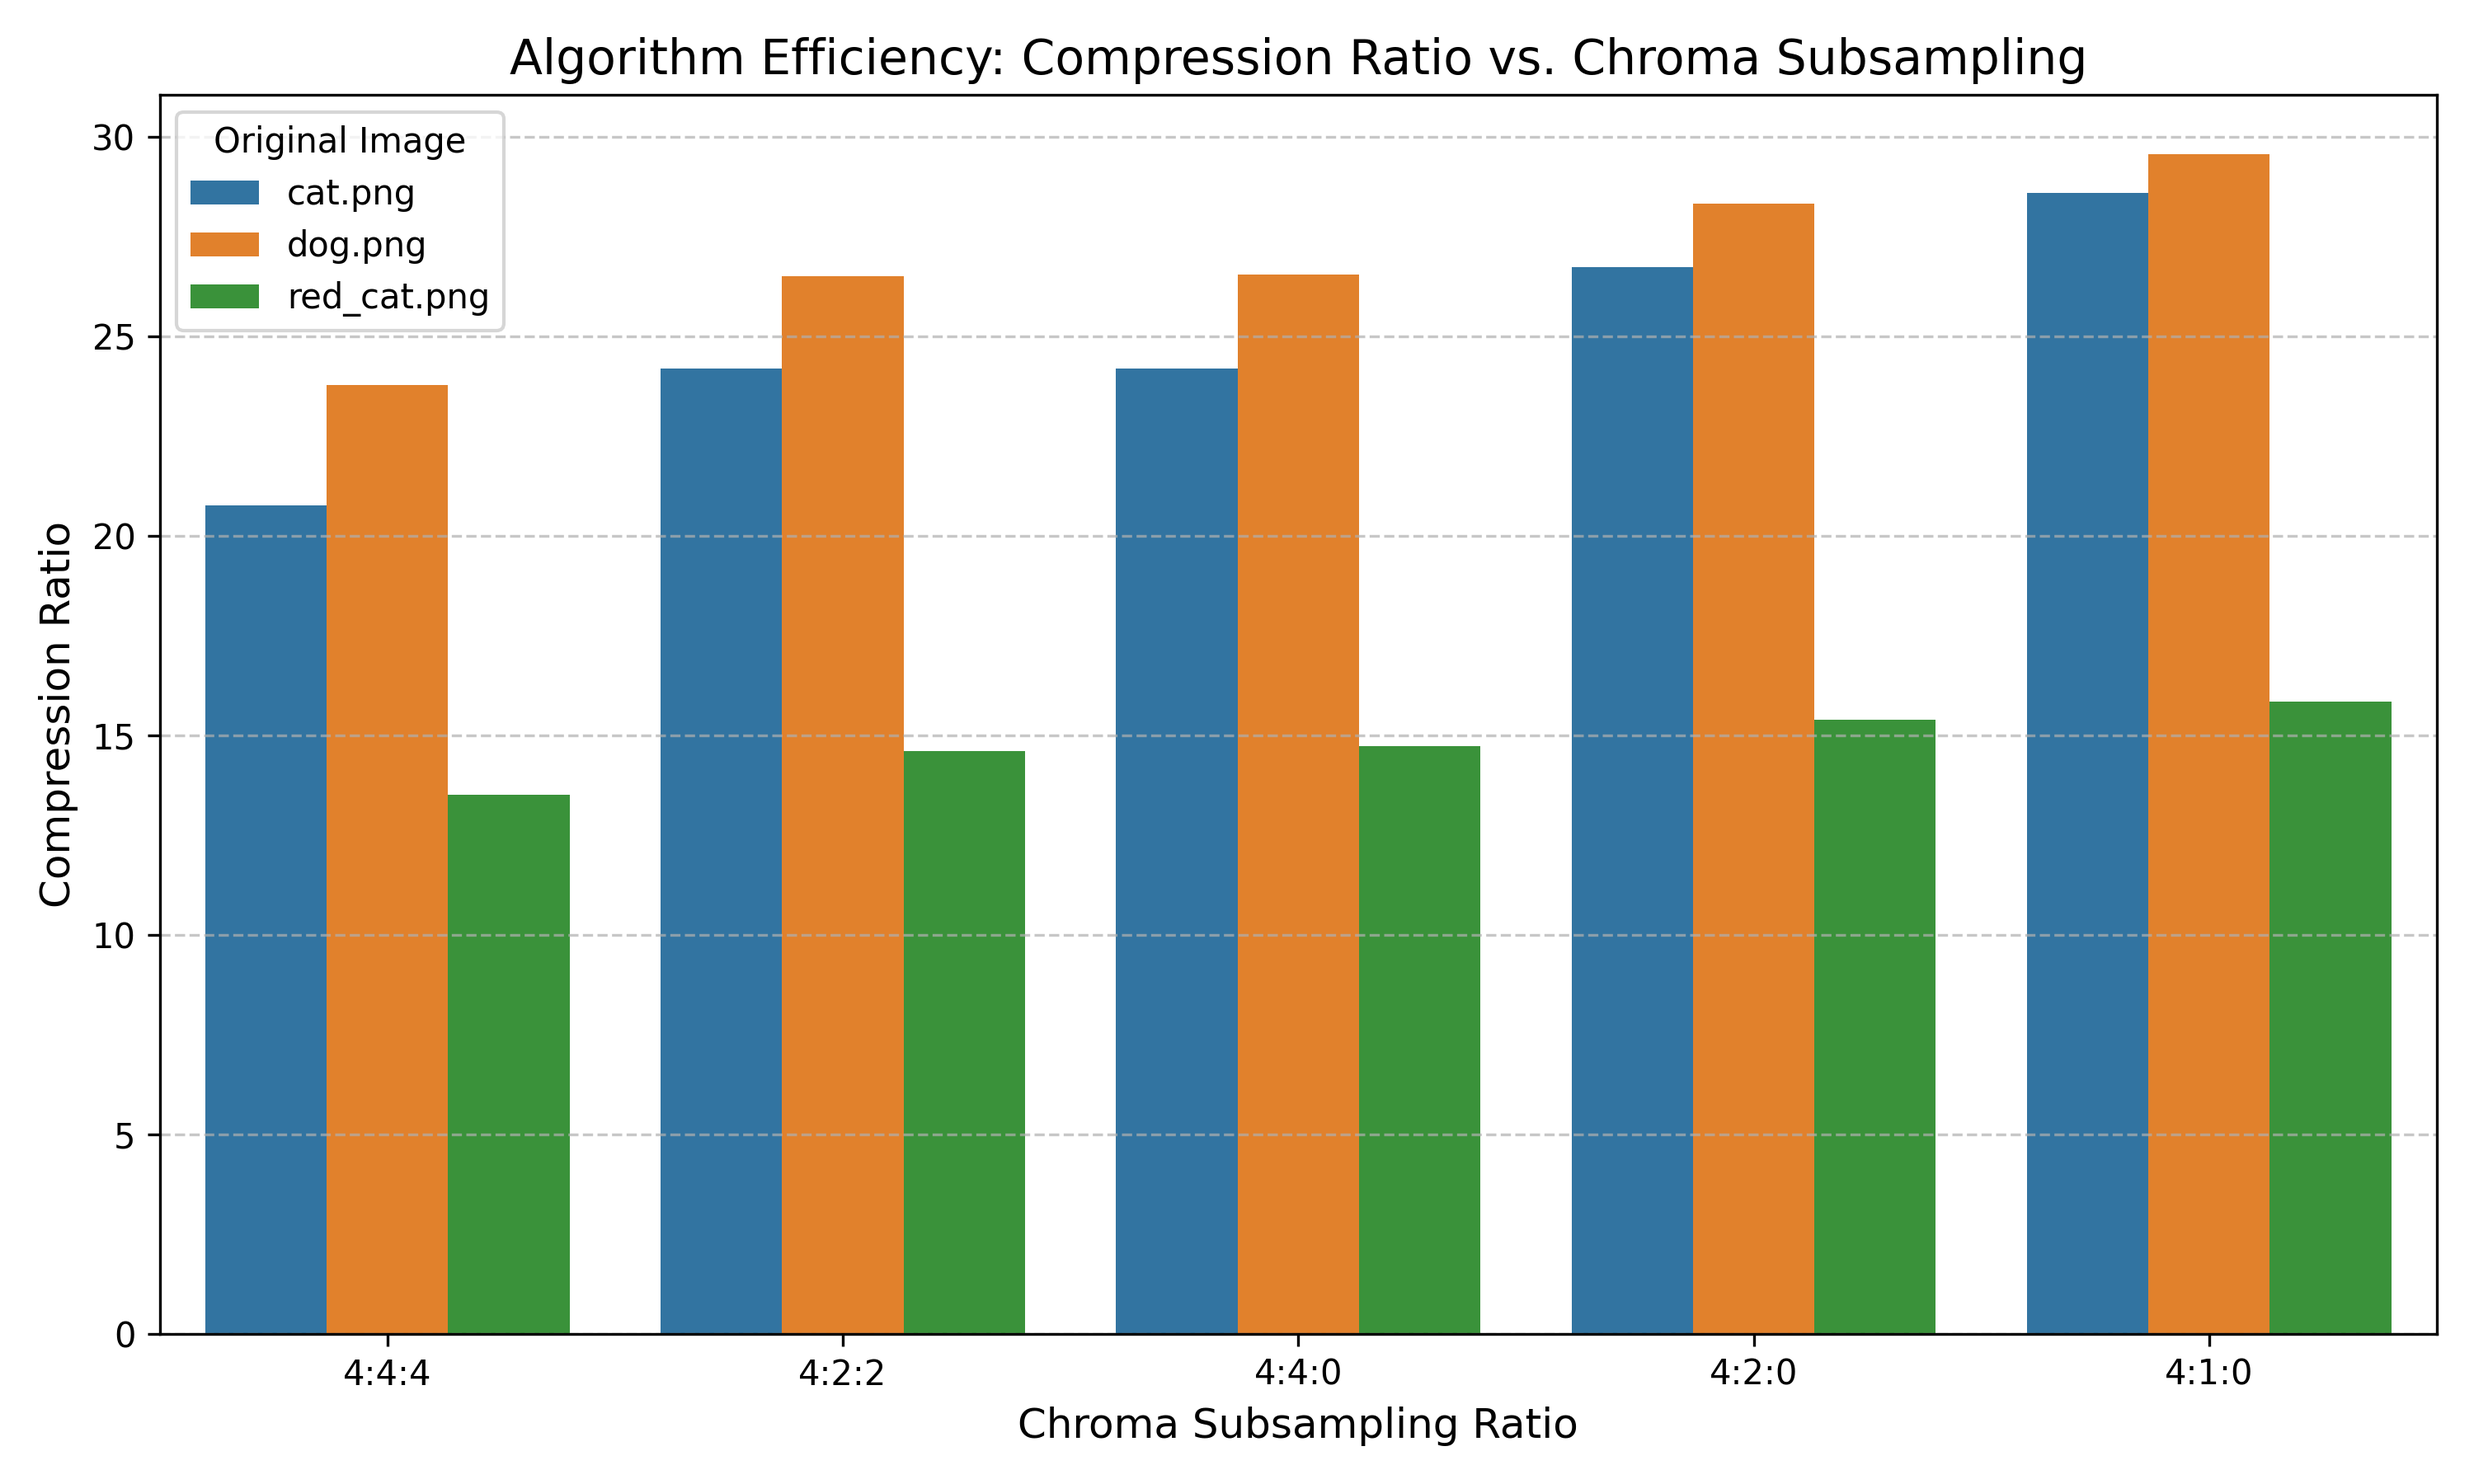
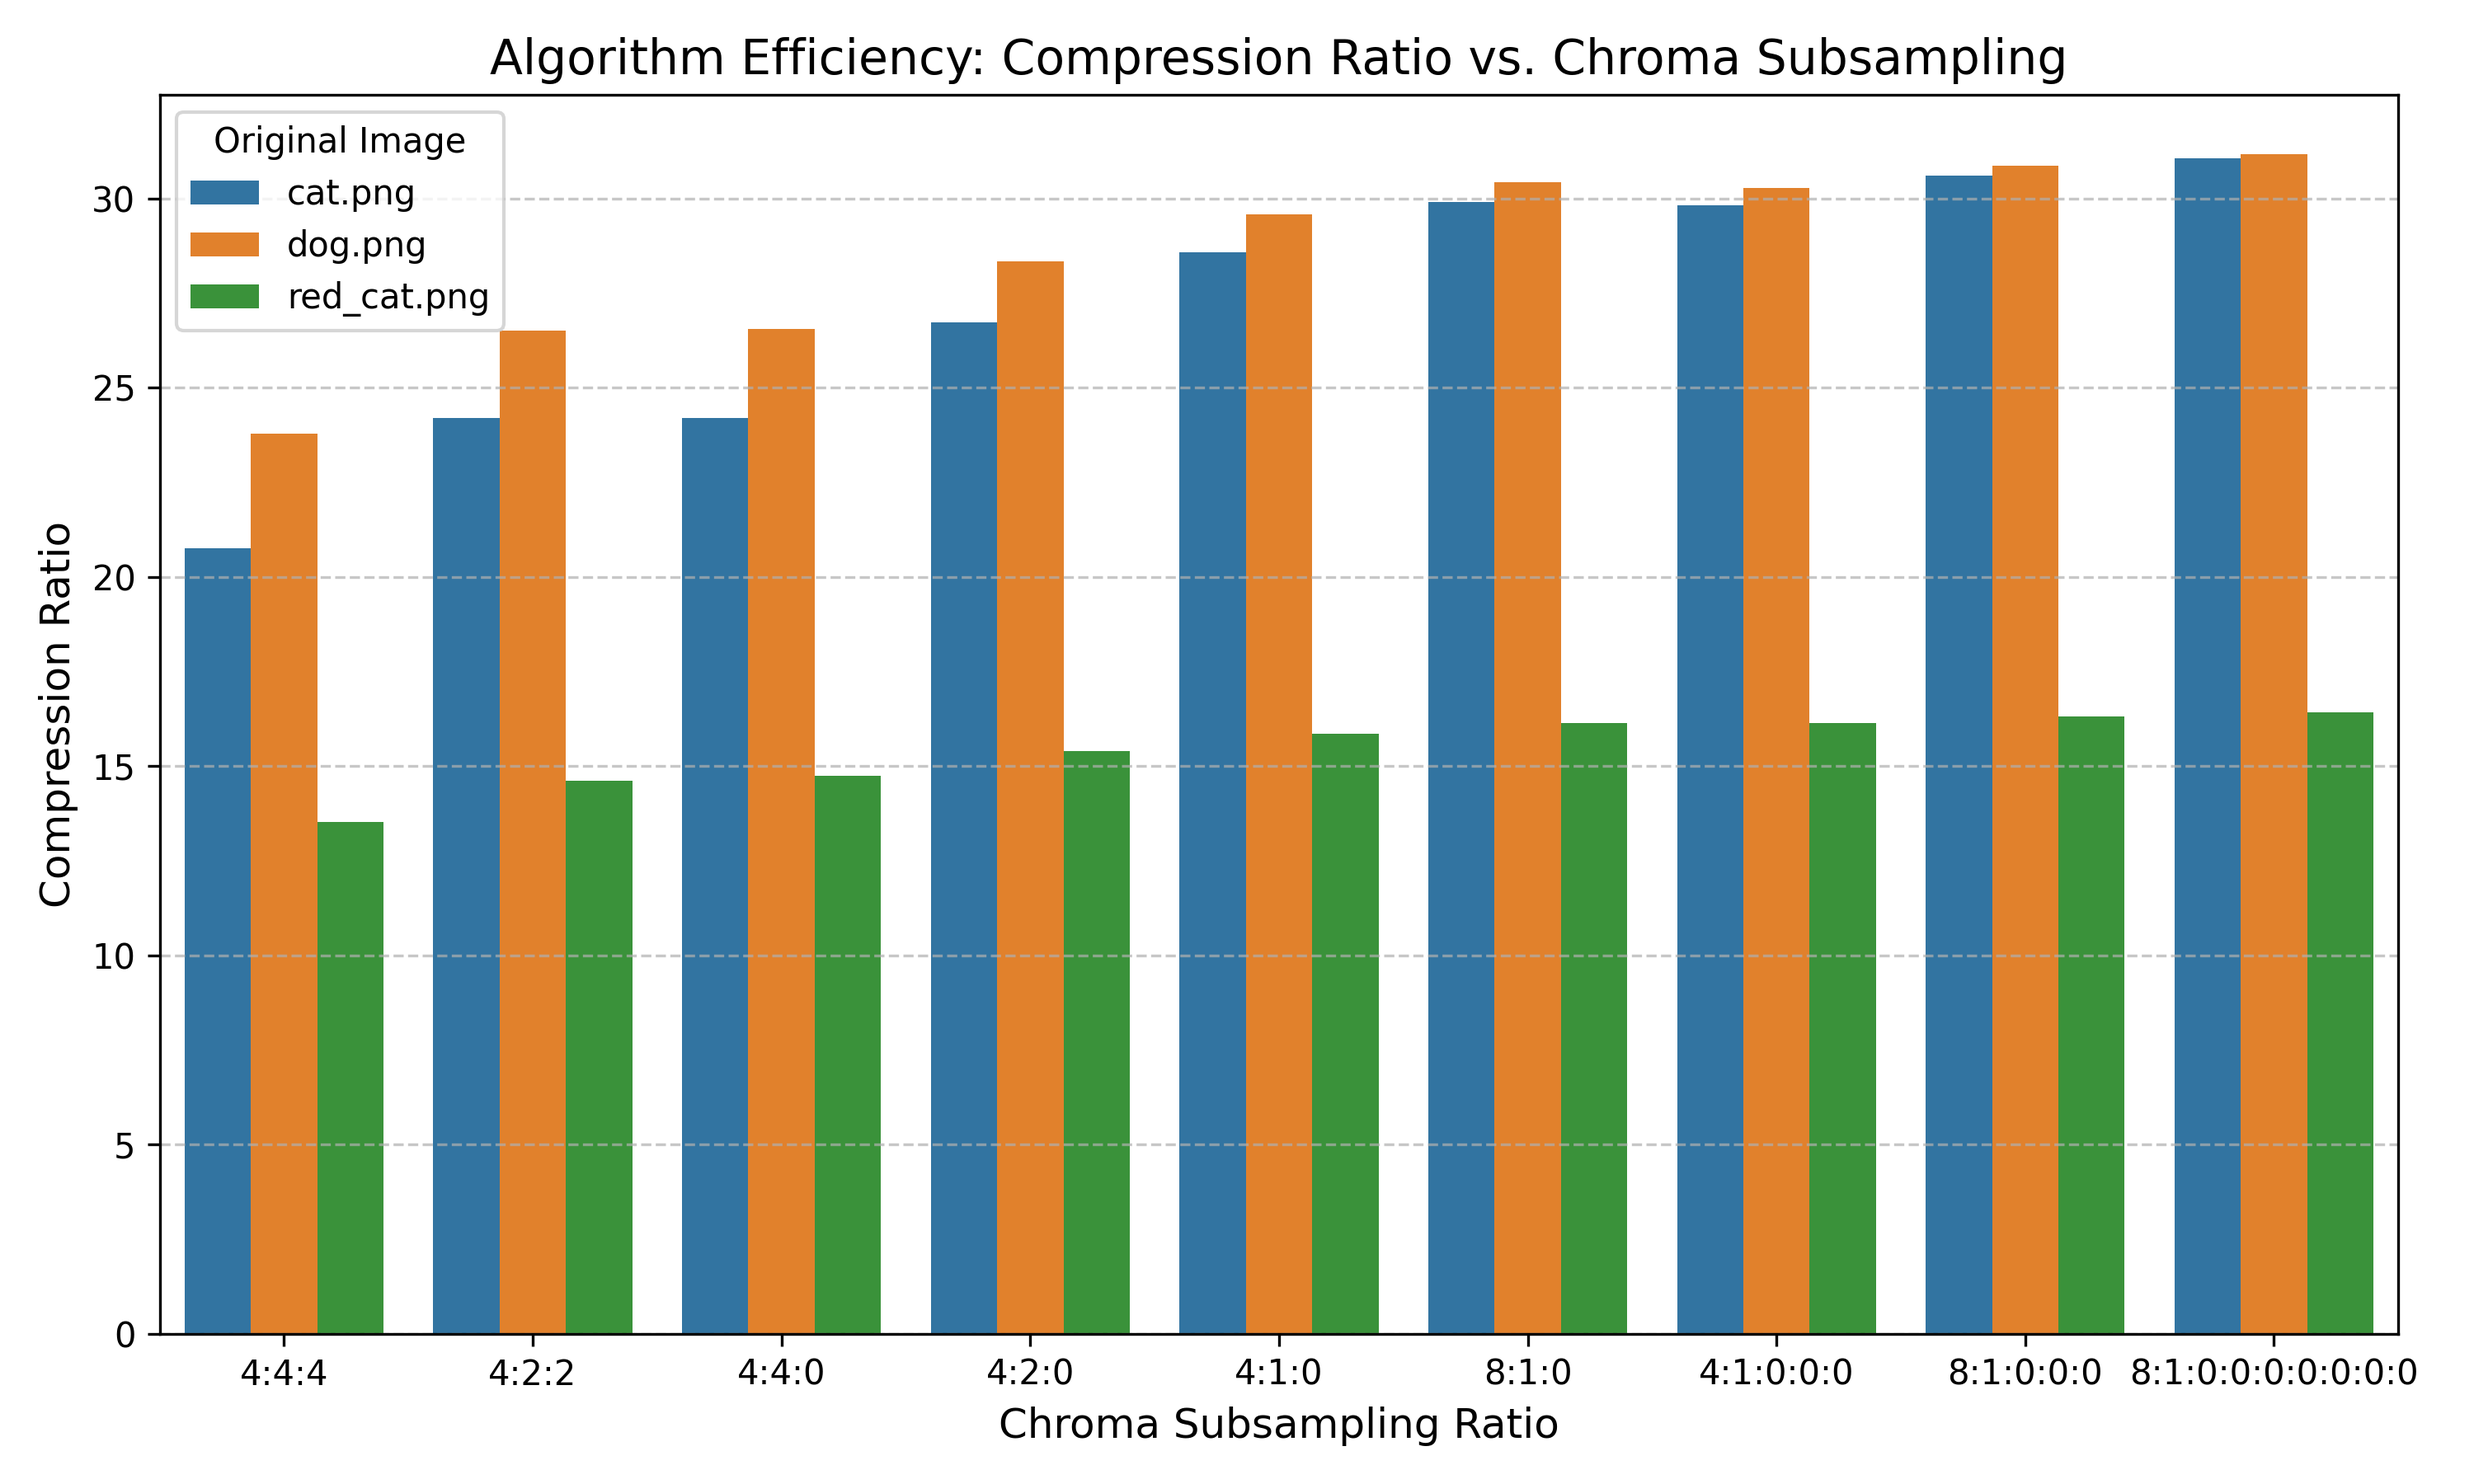
tests for added ratios

diff --git a/compression.py b/compression.py
@@ -296,10 +296,11 @@ def writeStatsToCSV(csv_filename, image_name, ratio, original_image_array, compr
     print(f"Stats successfully appended to {csv_filename}")
 
 #Tests
-#4:4:4 4:4:0 4:2:2 4:2:0 4:1:0
-image_filename="images/cat.png"
+#4:4:4 4:4:0 4:2:2 4:2:0 4:1:0 
+# 4:1:0:0:0 8:1:0 8:1:0:0:0 final
+image_filename="images/dog.png"
 ratio="final"
-decompressed_name = "images/cat9.png"
+decompressed_name = "images/red_cat_final.png"
 original_image = cv2.imread(image_filename)
 #image needs to be square shaped and divisible by 8
 resized_image = cv2.resize(original_image, (512, 512), dst=None, fx=None, fy=None, interpolation=cv2.INTER_LINEAR)
@@ -358,4 +359,4 @@ decompressed_image = cv2.resize(decompressed_image, (height, width) , dst=None, 
 # Wait for a key press before closing the window
 # cv2.waitKey(0)
 # cv2.destroyAllWindows()
-cv2.imwrite(decompressed_name, decompressed_image)
+# cv2.imwrite(decompressed_name, decompressed_image)

diff --git a/charts.py b/charts.py
@@ -6,7 +6,7 @@ import seaborn as sns
 df = pd.read_csv("compression_results_duda.csv")
 
 # 2. Sort the ratios logically 
-ratio_order = ['4:4:4', '4:2:2', '4:4:0', '4:2:0', '4:1:0']
+ratio_order = ['4:4:4', '4:2:2', '4:4:0', '4:2:0', '4:1:0', '8:1:0', '4:1:0:0:0', '8:1:0:0:0', '8:1:0:0:0:0:0:0:0']
 df['Ratio'] = pd.Categorical(df['Ratio'], categories=ratio_order, ordered=True)
 df = df.sort_values(['Image_Name', 'Ratio'])
 
